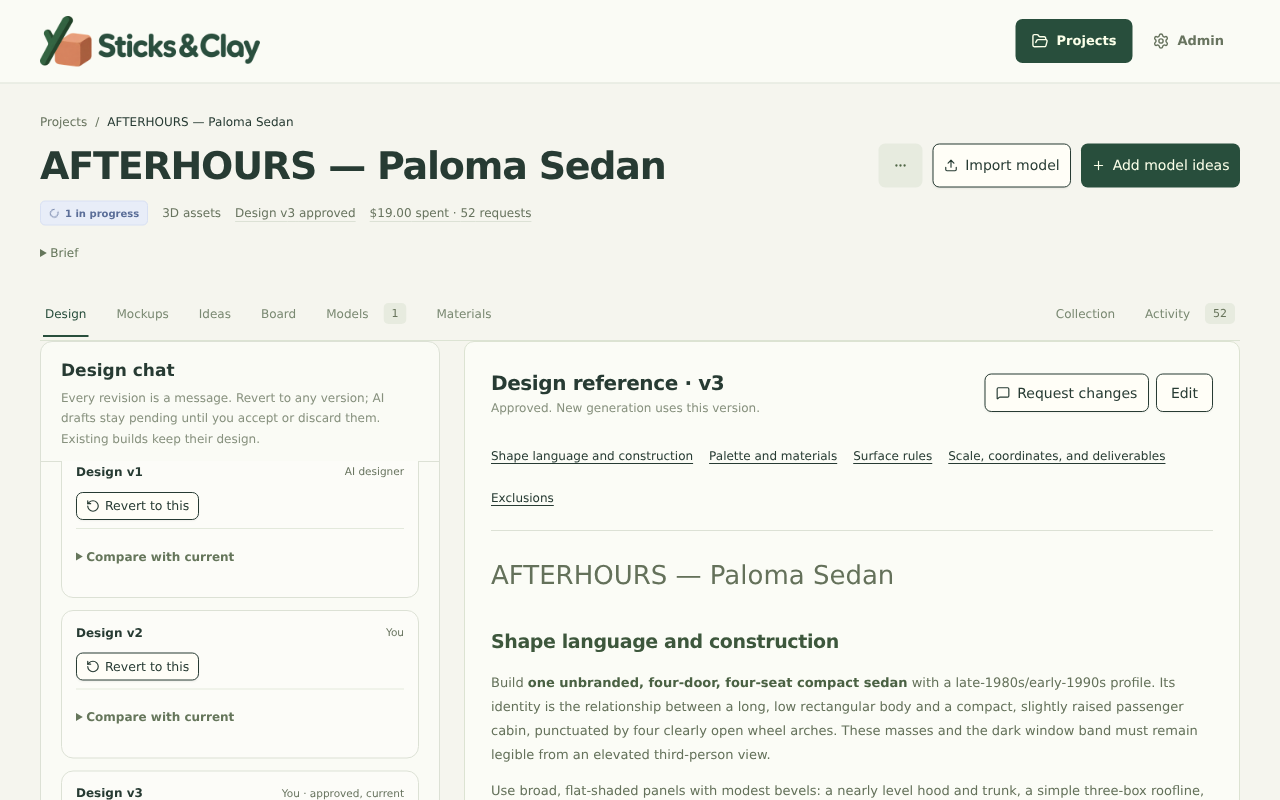
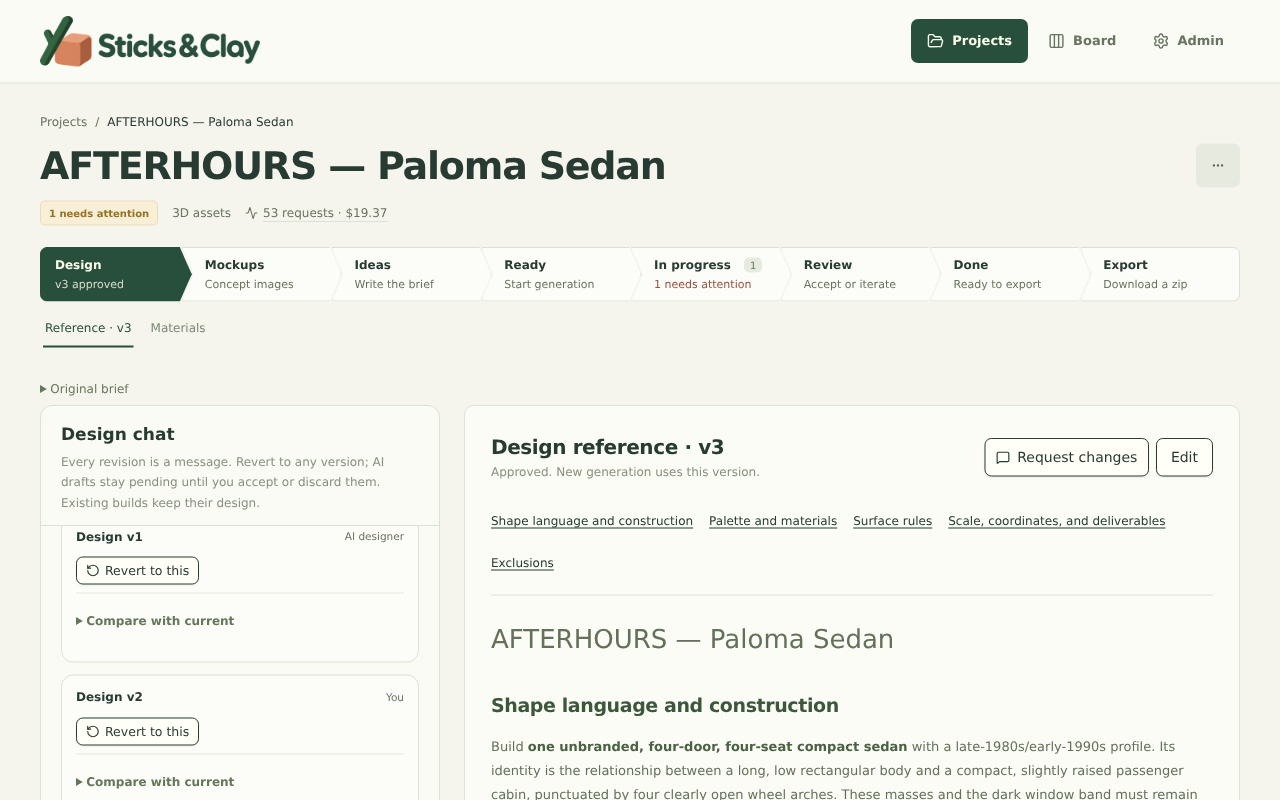
refactor(workspace): simplify workflow headings and stage actions

diff --git a/src/routes/projects/$projectId/index.tsx b/src/routes/projects/$projectId/index.tsx
@@ -14,7 +14,6 @@ import { ProjectSetup } from "./-components/project-setup";
 import { ImportModel } from "./-components/import-model";
 import { WorkerNotice } from "@/components/worker-notice";
 import { MaterialPanel } from "./-components/materials";
-import { Badge } from "@/components/ui/badge";
 import { Button } from "@/components/ui/button";
 import { Alert, AlertDescription } from "@/components/ui/alert";
 import { Empty } from "@/components/ui/empty";
@@ -259,13 +258,9 @@ function ProjectPage() {
           <div className="page-meta">
             <StatusBadge tone={state.tone as any}>{state.label}</StatusBadge>
             <span>{assetTypeLabels[p.assetType as AssetType]}</span>
-            <button type="button" onClick={() => setTab("design")}>
-              Design v{p.designVersion} {ready ? "approved" : "awaiting approval"}
-            </button>
-            <button type="button" aria-pressed={activeTab === "history"} onClick={() => setTab("history")}>
-              <ActivityIcon size={13} aria-hidden="true" /> Activity
-              {!!rs.length && <Badge variant="secondary" className="count">{rs.length}</Badge>}
-              {" · "}{costSummary(total.cost)} spent
+            <button type="button" aria-label={`Activity: ${rs.length} AI requests, estimated cost ${costSummary(total.cost)}`} title="View activity" aria-pressed={activeTab === "history"} onClick={() => setTab("history")}>
+              <ActivityIcon size={13} aria-hidden="true" />
+              {rs.length} {rs.length === 1 ? "request" : "requests"} · {costSummary(total.cost)}
               {total.unpriced ? ` (${total.unpriced} unpriced)` : ""}
             </button>
           </div>
@@ -278,15 +273,8 @@ function ProjectPage() {
             onChanged={load}
             onDeleted={() => navigate({ to: "/" })}
           />
-          {ready && !isGraphics && !p.archivedAt && <ImportModel projectId={projectId} />}
-          {ready ? (
-            <Button disabled={Boolean(p.archivedAt)} onClick={() => setGenerate(true)}>
-              <Plus size={17} /> Add asset
-            </Button>
-          ) : (
-            activeTab !== "design" && (
-              <Button onClick={() => setTab("design")}>Review design</Button>
-            )
+          {!ready && activeTab !== "design" && (
+            <Button onClick={() => setTab("design")}>Review design</Button>
           )}
         </div>
       </section>
@@ -377,6 +365,12 @@ function ProjectPage() {
         )}
         {activeTab === "export" && (
           <>
+            <div className="stage-head">
+              <div>
+                <h2>Export</h2>
+                <p className="muted">Zip every saved file of the accepted {assetPlural}. Collection renders follow below.</p>
+              </div>
+            </div>
             <ExportPanel projectId={projectId} projectName={p.name} models={data.assetVersions} />
             {isGraphics &&
               data.batches
@@ -459,30 +453,29 @@ function ProjectPage() {
                 <h2>{boardStageTitles[stage]}</h2>
                 <p className="muted">{stageMeanings[stage]}</p>
               </div>
-              {stageCounts[stage] > 0 && !["idea", "ready"].includes(stage) && (
-                <Input
-                  aria-label="Search collection"
-                  placeholder={`Search ${assetPlural}`}
-                  value={query}
-                  onChange={(event) => setQuery(event.target.value)}
-                />
-              )}
+              <div className="stage-actions">
+                {stageCounts[stage] > 0 && !["idea", "ready"].includes(stage) && (
+                  <Input
+                    aria-label="Search collection"
+                    placeholder={`Search ${assetPlural}`}
+                    value={query}
+                    onChange={(event) => setQuery(event.target.value)}
+                  />
+                )}
+                {stage === "review" && ready && !isGraphics && !p.archivedAt && <ImportModel projectId={projectId} />}
+                {stage === "idea" && (
+                  <Button disabled={Boolean(p.archivedAt)} onClick={() => setGenerate(true)}>
+                    <Plus size={17} /> Add asset
+                  </Button>
+                )}
+              </div>
             </div>
             {!stageCounts[stage] ? (
               <Empty className="empty">
                 <h2>{stageEmpty[stage][0]}</h2>
                 <p>{stageEmpty[stage][1]}</p>
-                {stage === "idea" && (
-                  <div className="flex flex-wrap justify-center gap-2">
-                    <Button disabled={Boolean(p.archivedAt)} onClick={() => setGenerate(true)}>
-                      <Plus size={17} /> Add asset
-                    </Button>
-                    {ready && (
-                      <Button variant="outline" onClick={() => setTab("mockups")}>
-                        Generate mockups first
-                      </Button>
-                    )}
-                  </div>
+                {stage === "idea" && ready && (
+                  <Button variant="outline" onClick={() => setTab("mockups")}>Generate mockups first</Button>
                 )}
               </Empty>
             ) : ["idea", "ready"].includes(stage) ? (

diff --git a/src/styles.css b/src/styles.css
@@ -1868,7 +1868,9 @@ a.board-card-title:hover { text-decoration: underline; }
 .stage-head { display: flex; flex-wrap: wrap; align-items: flex-end; justify-content: space-between; gap: 12px; margin: 4px 0 16px; }
 .stage-head h2 { margin: 0; font-size: 20px; }
 .stage-head p { margin: 4px 0 0; font-size: 12px; }
-.stage-head input { width: 240px; min-height: 42px; background: var(--card); }
+.stage-actions { display: flex; flex-wrap: wrap; align-items: center; gap: 10px; }
+.stage-actions input { width: 240px; min-height: 42px; background: var(--card); }
+.stage-actions button { min-height: 42px; }
 .page-meta > button[aria-pressed="true"] { color: var(--primary); }
 .page-meta > button .count { margin: 0 2px; }
 .stage-strip button { flex: 1; display: flex; flex-direction: column; align-items: flex-start; gap: 2px; min-width: 0; min-height: 52px; padding: 8px 14px 8px 22px; border: 1px solid var(--border); border-radius: 0; background: var(--card); color: var(--foreground); font: inherit; text-align: left; cursor: pointer; clip-path: polygon(0 0, calc(100% - 12px) 0, 100% 50%, calc(100% - 12px) 100%, 0 100%, 12px 50%); }
@@ -1887,7 +1889,7 @@ a.board-card-title:hover { text-decoration: underline; }
 .stage-strip button[aria-pressed="true"] .attention { color: #f3c9bd; opacity: 1; }
 @media (max-width: 600px) {
   .stage-strip { flex-basis: 100%; overflow-x: auto; padding-bottom: 4px; }
-  .stage-head input { width: 100%; }
+  .stage-actions, .stage-actions input, .stage-actions > * { width: 100%; }
   .stage-strip button { flex: 0 0 150px; min-height: 48px; }
 }
 .card-actions { display: flex; flex-wrap: wrap; gap: 6px; padding-top: 12px; border-top: 1px solid var(--border); }

diff --git a/src/routes/projects/$projectId/-components/history.tsx b/src/routes/projects/$projectId/-components/history.tsx
@@ -126,14 +126,12 @@ export function History({ runs, models }: { runs: any[]; models: any[] }) {
   const max = Math.max(1, ...runs.map((r) => r.inputTokens + r.outputTokens));
   return (
     <div className="history">
-      <div className="section-title">
-        <h2>Activity</h2>
-        <span>{runs.length} AI requests</span>
+      <div className="stage-head">
+        <div>
+          <h2>Activity</h2>
+          <p className="muted">Every AI request with its outcome and estimated cost, including failed attempts.</p>
+        </div>
       </div>
-      <p className="muted">
-        Every AI request, grouped by asset. Costs are estimates and include
-        failed attempts.
-      </p>
       {!!runs.length && (
         <div className="history-filters">
           <Label>

diff --git a/src/routes/projects/$projectId/-components/stage-strip.tsx b/src/routes/projects/$projectId/-components/stage-strip.tsx
@@ -31,7 +31,7 @@ export function StageStrip<Id extends string>({ steps, current, onSelect }: {
   }, [current]);
   return <div className="stage-strip" role="group" aria-label="Project workflow" ref={strip}>
     {steps.map((step) => <button type="button" key={step.id} aria-pressed={current === step.id} onClick={() => onSelect(step.id)}>
-      <strong>{step.title} {step.count !== undefined && <span className="count">{step.count}</span>}</strong>
+      <strong>{step.title} {!!step.count && <span className="count">{step.count}</span>}</strong>
       <small className={step.warn ? "attention" : undefined}>{step.hint}</small>
     </button>)}
   </div>;

diff --git a/src/lib/project-summary.ts b/src/lib/project-summary.ts
@@ -130,7 +130,7 @@ export function projectState(
   if (collection.queued)
     return { label: `${collection.queued} queued`, tone: "queued" };
   if (collection.attention)
-    return { label: `${collection.attention} need attention`, tone: "warning" };
+    return { label: `${collection.attention} need${collection.attention === 1 ? "s" : ""} attention`, tone: "warning" };
   if (collection.completed)
     return { label: `${collection.completed} completed`, tone: "done" };
   return { label: "Ready to generate", tone: "ready" };

diff --git a/src/routes/index.tsx b/src/routes/index.tsx
@@ -370,7 +370,7 @@ function ProjectsPage() {
                         · {p.collection?.completed || 0} completed
                       </span>
                       {!!p.collection?.attention && (
-                        <span>{p.collection.attention} need attention</span>
+                        <span>{p.collection.attention} need{p.collection.attention === 1 ? "s" : ""} attention</span>
                       )}
                       {p.status === "ready" && <span>Design approved</span>}
                     </div>

diff --git a/design.md b/design.md
@@ -54,7 +54,7 @@ Place alert text in the shadcn AlertDescription component so it uses the content
 
 - **Project list:** “Projects” with a count and a New project button; an empty workspace gets one sentence explaining the flow. Search, active/attention filters, and newest/name sorting sit above the three-column card grid. Setup offers visible 3D assets / Graphics / SVG files radio choices. Cards show their collection type.
 - **Project cards:** a 16:9 cover showing the newest completed project photograph (reference image fallback; graphics and references keep their full image with contain sizing and padding). Status sits top-left, the asset type bottom-left and the actions menu top-right, outside the link. The card meta line carries the date and the Generated collection / Reference image label. Status describes queued, active, attention or completed work, separately from design approval; unsent drafts say Draft. Show asset/completion counts, name, two-line description (an italic placeholder when there is no brief), and a rounded estimated cost. The Show filter adds Archived; archived projects are hidden from All and from the count. When no reference exists, use the existing soft sage gradient and thin Layers icon.
-- **Project workspace:** breadcrumb, project name, a meta row (status badge, asset type, design version and approval, and an Activity link with the request count and estimated cost; the last two open their views), an actions menu (Archive or Unarchive, and Delete while nothing has been generated) and one primary action (Add ideas, or Review design before approval). A workflow strip of nested chevron steps replaces the tab row: Design, Mockups, Ideas, Ready, In progress, Review, Done and Export from left to right, each with a one-line hint (Design shows its version and approval, Mockups its count, In progress how many assets need attention, Export the done count) and the stage counts. The pressed step lives in the URL as `?tab=`. Design holds compact secondary tabs for the Reference document and (3D only) Materials, kept in `?view=`, with the project's original brief collapsed above the reference. Mockups needs an approved design and says so otherwise. Each asset stage opens with a heading, its one-line meaning and, for stages with cards, the search field on the same row. An approved project opens on the first step with work in the order In progress, Review, Ideas, Ready, Done; an unapproved one opens on Design. Export lists the zip export and, below it, any collection renders (3D lineup and demo scene, or the 2D sheet). Old tab links (Style, Mockups, Materials, Ideas, Board, Models, Collection, Assets with a stage, and the short-lived Mockups design view) map onto the new steps and views. There is no Style tab: the reference images (which mockups can join) are the visual direction. An archived project stays readable behind a notice, with generation, mockups and design updates blocked.
+- **Project workspace:** breadcrumb, project name, a meta row (status badge, asset type, and an activity link showing the request count and estimated cost), an actions menu (Archive or Unarchive, and Delete while nothing has been generated) and, before approval, a Review design action. Add asset sits on the Ideas stage heading and Import model on the Review stage heading, so creation happens where the result appears. A workflow strip of nested chevron steps replaces the tab row: Design, Mockups, Ideas, Ready, In progress, Review, Done and Export from left to right, each with a one-line hint (Design shows its version and approval, Mockups its count, In progress how many assets need attention, Export the done count) and the stage counts; a zero count shows no badge. The pressed step lives in the URL as `?tab=`. Design holds compact secondary tabs for the Reference document and (3D only) Materials, kept in `?view=`, with the project's original brief collapsed above the reference. Mockups needs an approved design and says so otherwise. Every step except Design and Mockups opens with a heading and a one-line meaning; asset stages with cards put the search field on that row next to the stage's action. An approved project opens on the first step with work in the order In progress, Review, Ideas, Ready, Done; an unapproved one opens on Design. Export lists the zip export and, below it, any collection renders (3D lineup and demo scene, or the 2D sheet). Old tab links (Style, Mockups, Materials, Ideas, Board, Models, Collection, Assets with a stage, and the short-lived Mockups design view) map onto the new steps and views. There is no Style tab: the reference images (which mockups can join) are the visual direction. An archived project stays readable behind a notice, with generation, mockups and design updates blocked.
 - **Models:** 240px cover images with an opt-in inline 3D quick preview, readable status, asset name, brief, triangle/cost metadata, and separate GLB/source downloads. Only one card preview is active at a time; collection renders sit in a collapsed Collection studio section below model cards when available.
 - **Graphics:** preserve the full square, portrait, or landscape image with contain sizing rather than cropping it into the model-card ratio. Generation asks for a canvas per batch. Pixel-art projects show their images enlarged without smoothing (`image-rendering: pixelated`, via the `pixelated` prop on `AssetImage` and the lightbox) so every cell stays a sharp square; their files are tiny, so they are stored and previewed losslessly. Cards expose the PNG or SVG download, generation status, brief, cost, and a link to activity. Do not show Blender, triangle, judge-round, 3D preview, or collection-scene controls for graphic projects.
 - **Design reference:** a studio split like the model page: the Design chat on the left (sticky; stacked below the document on phones) and the document with its reference sidebar on the right. The new project's brief is design v1 verbatim, with no AI processing, so a blank brief starts from the project name. The chat lists every revision as a message with its author, approval state and a Revert to this button (reverting writes a new revision) and a collapsed comparison with the current version. An AI draft waits as the current revision with Accept (approve) and Discard (revert to the previous approved version). The composer offers Change (apply a request), Improve (AI tightens the whole design) and Mockups (jump to the Mockups tab). Provider failures show plain-language text with Try again, Edit prompt and, for usage limits, a link to Settings. History actions wait while there are unsaved edits, a running update or a stale document. The document keeps Edit, Save as draft, Save and approve (or Approve when nothing changed), Discard edits and revision restoration; saved drafts need approval and existing batches retain their snapshots. Readable Markdown with section links; the editable source is monospace and preserves unsaved text while editing or previewing.
